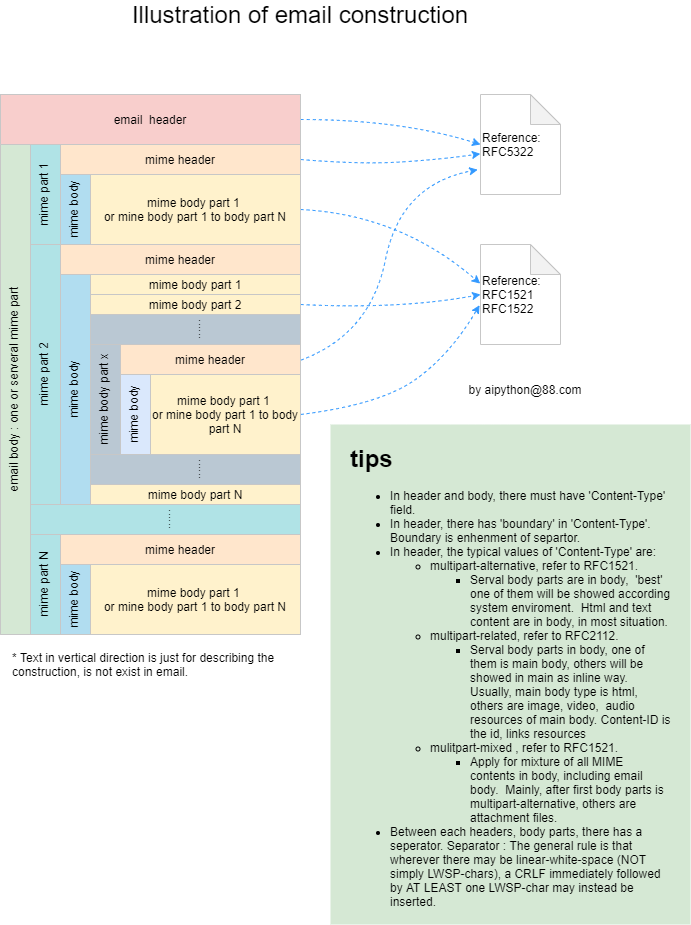
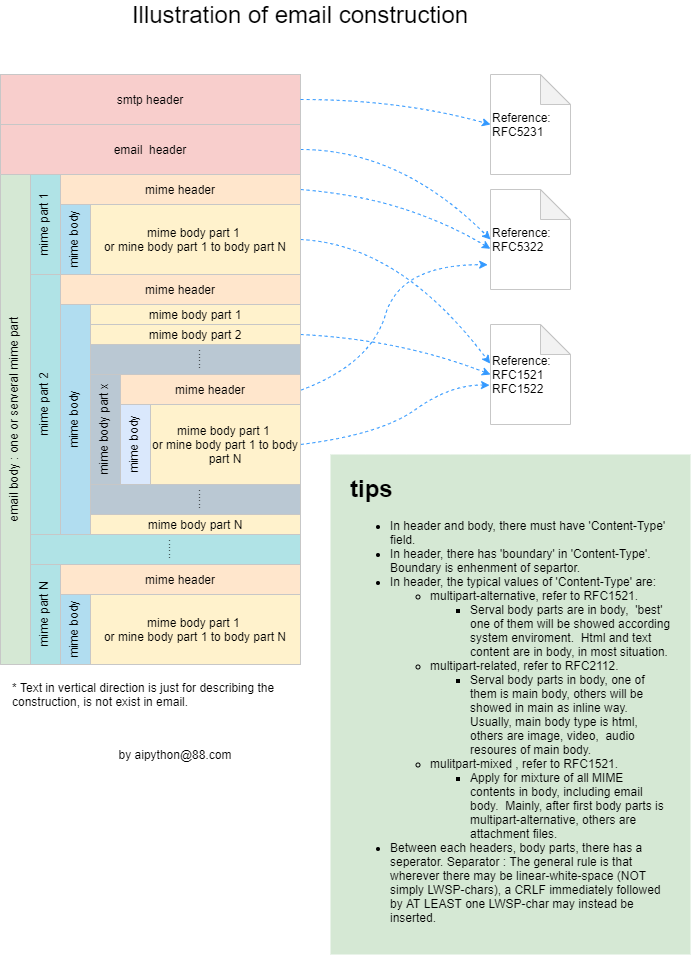
forth-2j

diff --git a/README.md b/README.md
@@ -239,6 +239,8 @@ Be aware for the mapping when call ***add_html_auto***.  *{mmail_**1**}* will be
 
 [chardet](https://pypi.org/project/chardet/)  — chardet 3.0.4
 
+[MIME](https://en.wikipedia.org/wiki/MIME) — from wikipedia
+
 [RFC1521](https://tools.ietf.org/html/rfc1521) — multipart/alternative, multipart/mixed
 
 [RFC2112](https://tools.ietf.org/html/rfc2112) — multipart/related
@@ -246,6 +248,8 @@ Be aware for the mapping when call ***add_html_auto***.  *{mmail_**1**}* will be
 [RFC4021](https://tools.ietf.org/html/rfc4021#section-2.1.2) — Registration of Mail and MIME Header Fields
 
 [RFC2045](https://tools.ietf.org/html/rfc2045), [RFC2046](https://tools.ietf.org/html/rfc2046), [RFC2047](https://tools.ietf.org/html/rfc2047), [RFC2048](https://tools.ietf.org/html/rfc2048) — Multipurpose Internet Mail Extensions, Part one to Part four
+
+[RFC5321](https://tools.ietf.org/html/rfc5321) — Simple Mail Transfer Protocol
 
 [RFC5322](https://tools.ietf.org/html/rfc5322.html) — Internet Message Format
 
